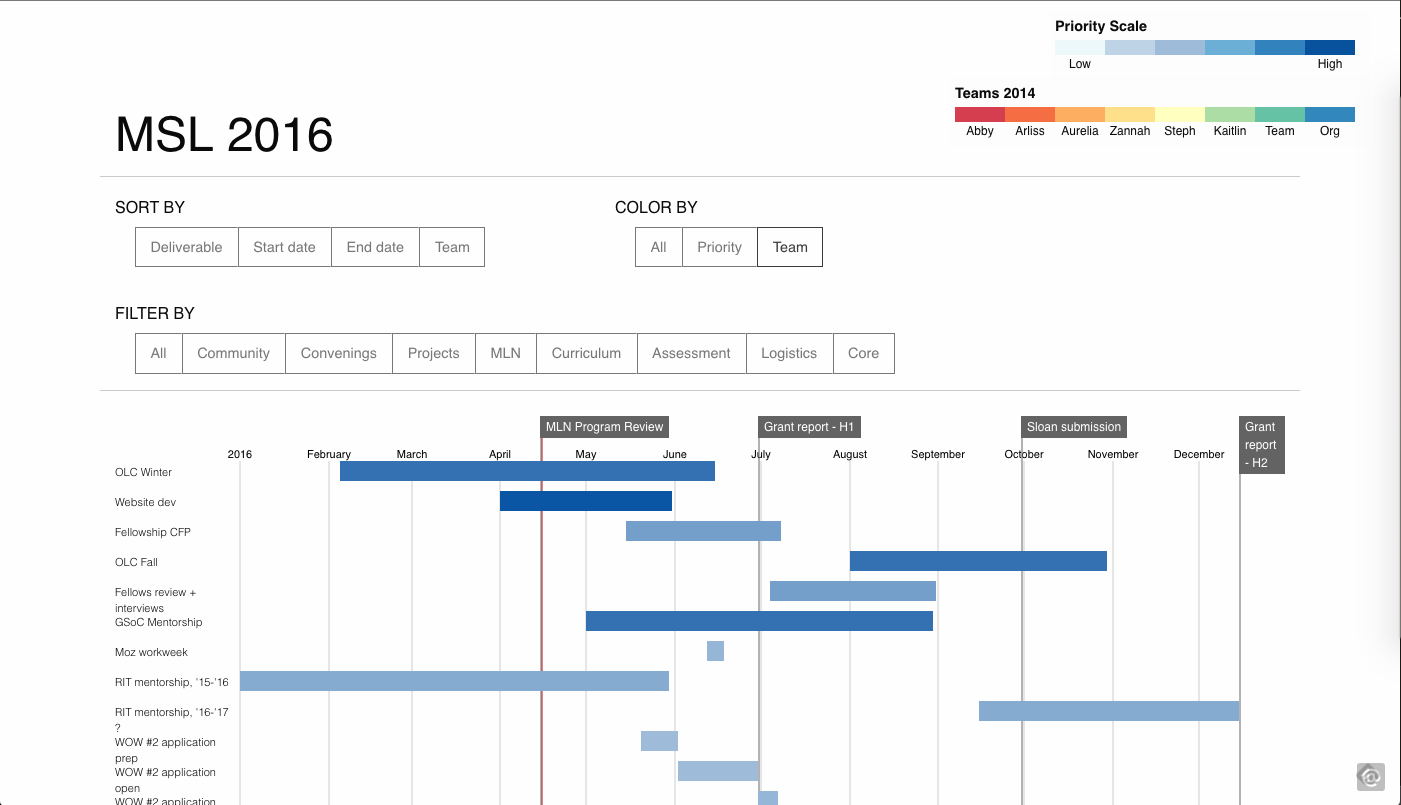
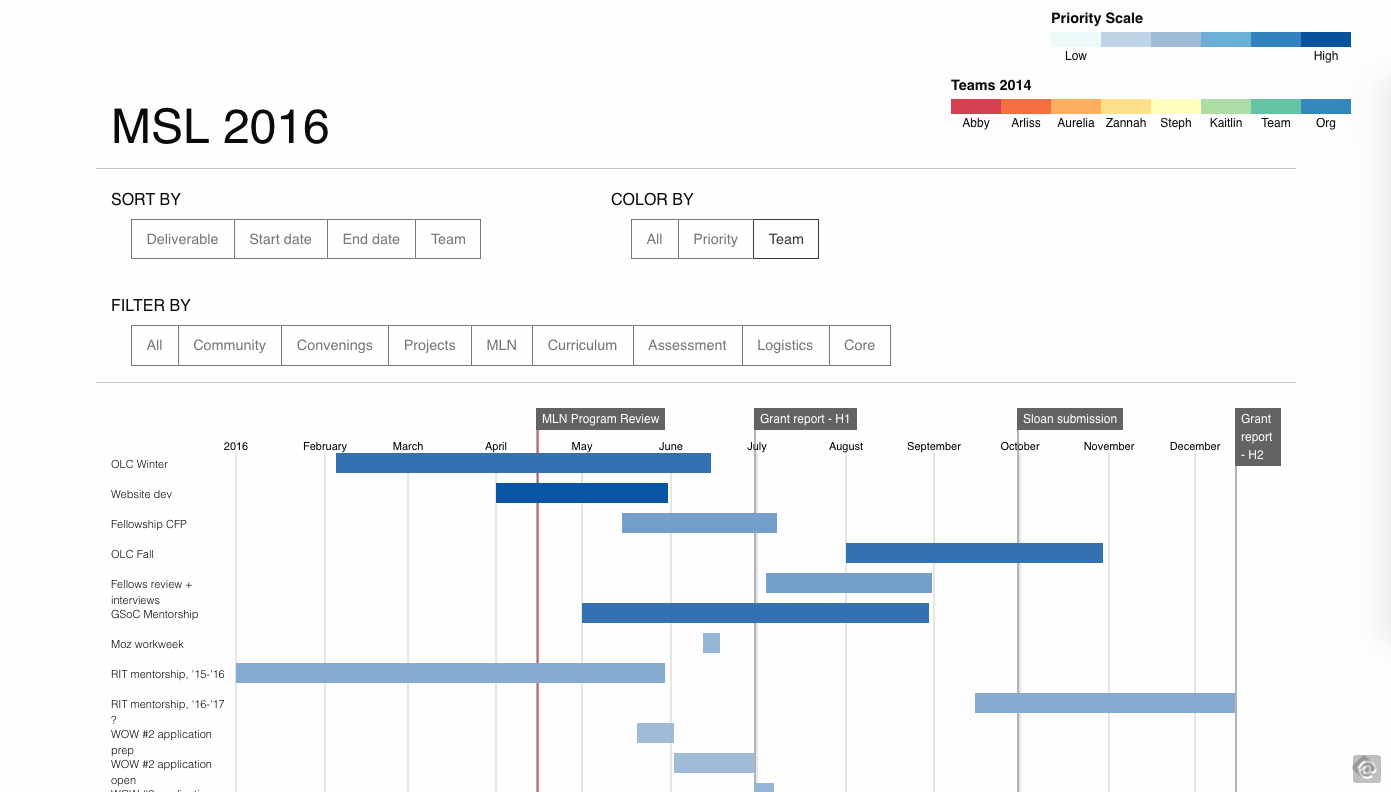
whoops swapped images

diff --git a/README.md b/README.md
@@ -3,12 +3,12 @@
 ### about
 This is a simple sortable chart for viewing projects and tracking them on a timeline.
 
-![gantt](https://raw.githubusercontent.com/auremoser/msl-gantt/gh-pages/assets/sheet.png)
+![gantt](https://raw.githubusercontent.com/auremoser/msl-gantt/gh-pages/assets/gantt.png)
 
 ### data
 Data CSV is stored in [Google Drive](https://docs.google.com/a/mozilla.com/spreadsheets/d/1IHocOhSxwA9XkO6rznmetSz_ATBIAPHgms4htOEd-tk/edit?usp=sharing) and looks like this:
 
-![data.csv](https://raw.githubusercontent.com/auremoser/msl-gantt/gh-pages/assets/gantt.png)
+![data.csv](https://raw.githubusercontent.com/auremoser/msl-gantt/gh-pages/assets/sheet.png)
 
 Headers are static, but all values are editable in the data.csv file.
 
